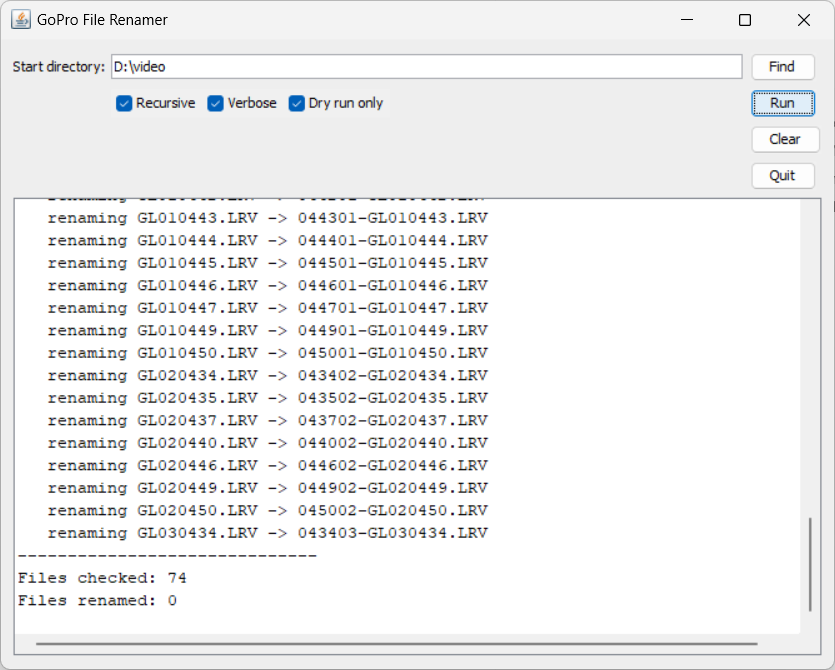
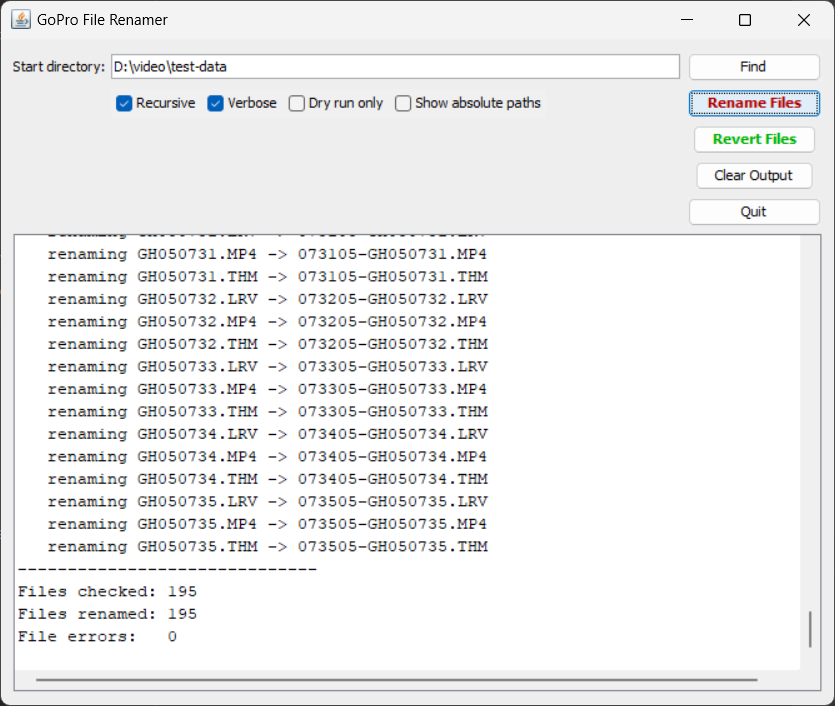
Updated README and screenshot.

diff --git a/README.md b/README.md
@@ -51,6 +51,7 @@ thereby returning them to proper lexicographic order while still preserving the 
 In addition, **all** associated GoPro files are renamed as well, including
 `.MP4`, `.THM` and `.LRV` files.
 The creation dates of the files are not changed.
+Renamed GoPro files can be **restored** to their original names if necessary.
 
 **Notes:** 
 * This tool only works for files produced with GoPro **Hero6** to **Hero12** (and hopefully later) cams. Earlier models using different file naming conventions
@@ -71,9 +72,13 @@ a few options to select. For example (on Win11):
 
 ![img.png](docs/images/renamer-gui-data.png)
 
-Click `Find` to select the start (root) directory of your GoPro files, then press `Start` to run the renamer.
-Activate `Dry run only` to see all renaming actions whithout actually modifying any files.
-Use `Quit` to exit the program. A protocol is output to the console.
+* Click `Find` to select the start (root) directory of your GoPro files.
+* Activate `Recursive` to see all renaming actions without actually modifying any files.
+* Activate `Dry run only` to see all renaming actions without actually modifying any files.
+* Click `Rename Files` to start renaming GoPro files.
+* Click `Revert Files` to restore GoPro files to their original names.
+* Use `Clear Output` to clear the console.
+* Use `Quit` to exit the program.
 
 ## Run in command window or shell 
 
